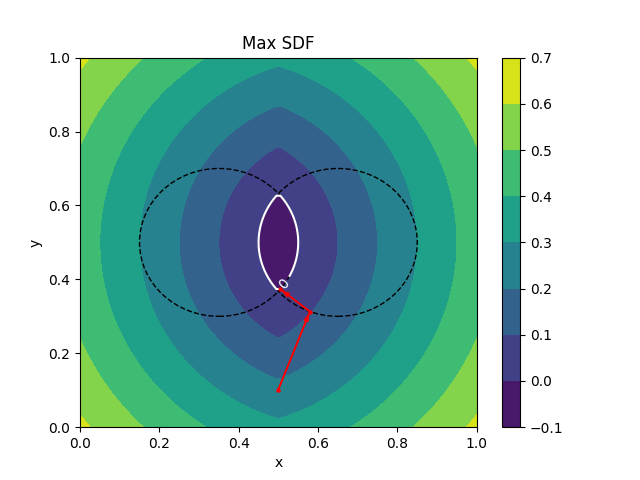
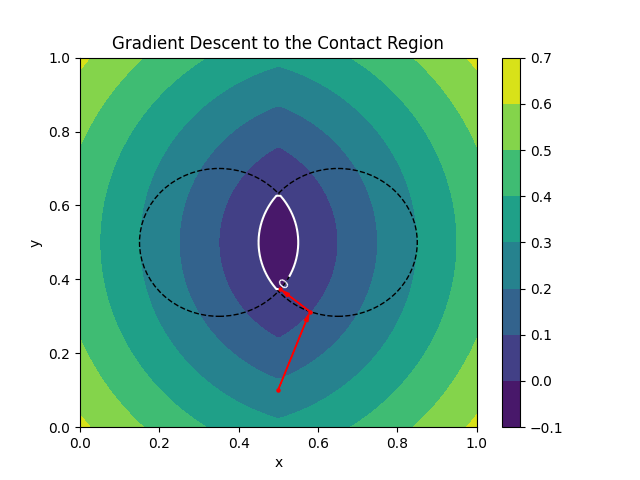
.

Changed region(s): [[0.1562, 0.0625, 0.6875, 0.125]]

diff --git a/maxsdf.py b/maxsdf.py
@@ -29,7 +29,7 @@ xy = np.stack([x, y], axis=1)
 sdf = sdf_max(xy)
 
 fig, ax = plt.subplots()
-plt.title('Max SDF')
+plt.title('Gradient Descent to the Contact Region')
 plt.xlabel('x')
 plt.ylabel('y')
 plt.xlim(0, 1)
